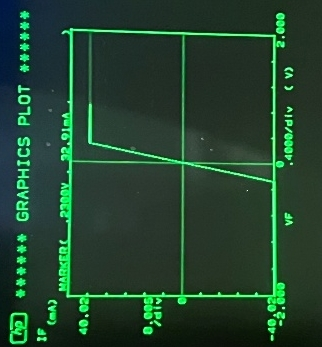
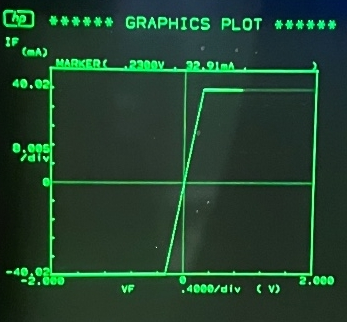
Stack PMOS project photos and fix sideways I-V curve images
All side-by-side image pairs on the PMOS fab page (furnace/SEM, aligner/mask,
Denton panel/gas valves, comb structure/serpentine, both I-V curves) were too
small to read at half-column width. Switched those grids to full-width
stacked layout; the credits two-column text grid is untouched since that
wasn't a photo layout.

Also fixed the two HP4145B I-V curve captures rendering sideways: sips -r 90
rotated the pixels correctly but left a stale eXIf chunk in the PNG, so
Chrome rotated it a second time on top of the already-correct image — same
bug class as the earlier LASER and hexapod photo-rotation issues. Stripped
the chunk in place.

diff --git a/app/projects/pmos-fab/page.tsx b/app/projects/pmos-fab/page.tsx
@@ -164,7 +164,7 @@ export default function PMOSFabPage() {
               over-etching later), but it&apos;s a real gap between the model and the furnace worth
               flagging rather than quietly rounding away.
             </Text>
-            <div className="grid grid-cols-1 sm:grid-cols-2 gap-4">
+            <div className="space-y-4">
               <MediaFrame
                 src={FURNACE_SRC}
                 alt="Viewport of the oxidation and diffusion furnace showing the thermal block alignment used for wafer insertion"
@@ -198,7 +198,7 @@ export default function PMOSFabPage() {
               resist coat, and changed our Karl Süss alignment habits to stop the wafer from shifting
               during exposure — both fixes are now baked into the standard procedure for the next class.
             </Text>
-            <div className="grid grid-cols-1 sm:grid-cols-2 gap-4">
+            <div className="space-y-4">
               <MediaFrame
                 src={ALIGNER_SRC}
                 alt="Karl Suss contact aligner with a UV light meter sensor placed on the chuck to measure exposure intensity"
@@ -291,7 +291,7 @@ export default function PMOSFabPage() {
               before deposition, run for <strong className="text-white">~40 minutes</strong>.
             </Text>
 
-            <div className="grid grid-cols-1 sm:grid-cols-2 gap-4 mb-6">
+            <div className="space-y-4 mb-6">
               <MediaFrame
                 src={DENTON_PANEL_SRC}
                 alt="Denton Vacuum sputter coater DC power switch panel"
@@ -333,7 +333,7 @@ export default function PMOSFabPage() {
               electrical measurements imply.
             </Text>
 
-            <div className="grid grid-cols-1 sm:grid-cols-2 gap-4 mb-6">
+            <div className="space-y-4 mb-6">
               <MediaFrame
                 src={COMB_PROBE_SRC}
                 alt="Microscope view of a comb test structure die being contacted by tungsten needle probes on the probe station"
@@ -350,7 +350,7 @@ export default function PMOSFabPage() {
               The HP4145B&apos;s CRT plot came through loud and clear on the diode structures — clean
               forward I-V curves that behave like the ideal diode equation predicts.
             </Text>
-            <div className="grid grid-cols-1 sm:grid-cols-2 gap-4 mb-6">
+            <div className="space-y-4 mb-6">
               <div className="rounded-lg overflow-hidden border border-red-900/40 bg-black p-2">
                 <img src={IV_CURVE_1_SRC} alt="HP4145B CRT graphics plot of diode forward I-V curve" className="w-full h-auto" />
               </div>
